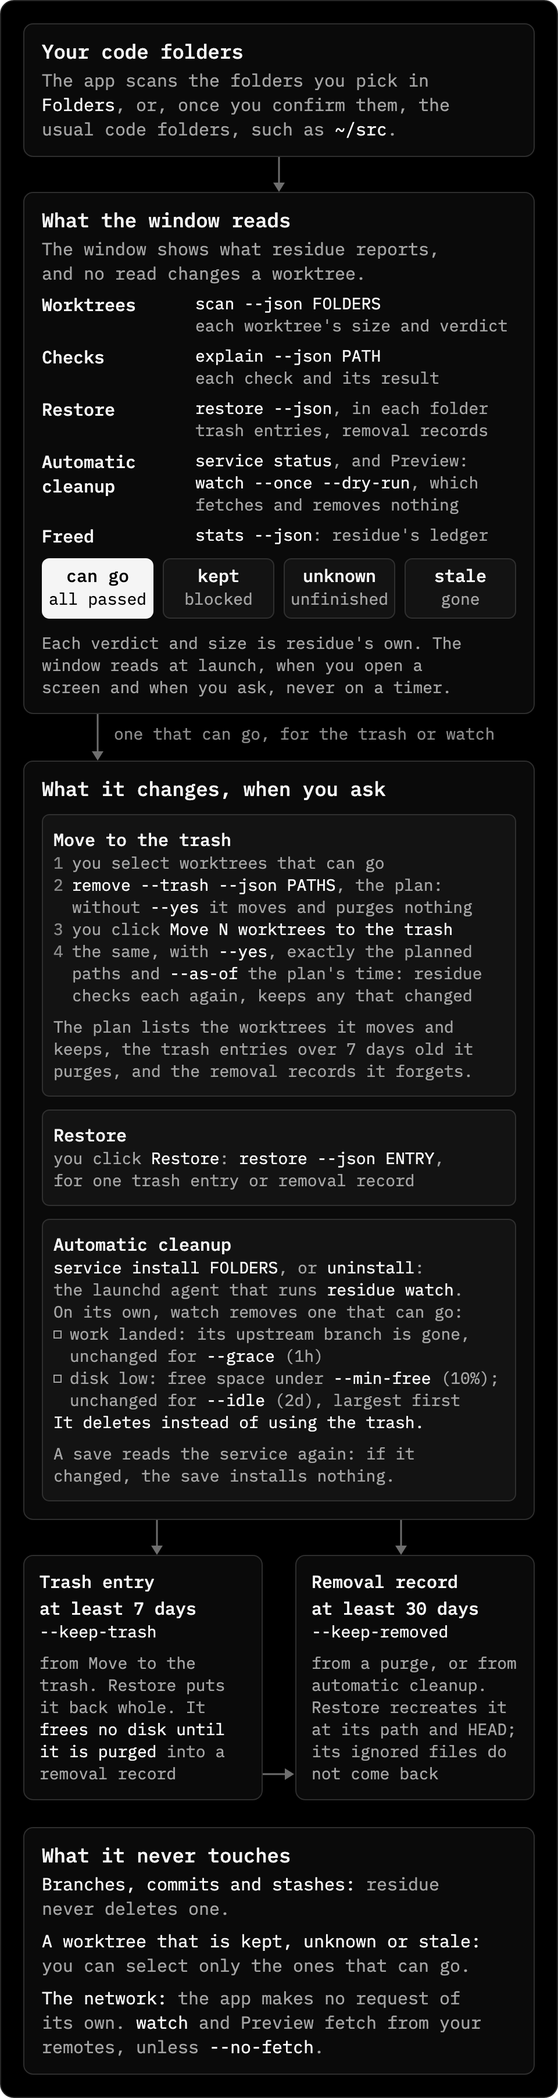
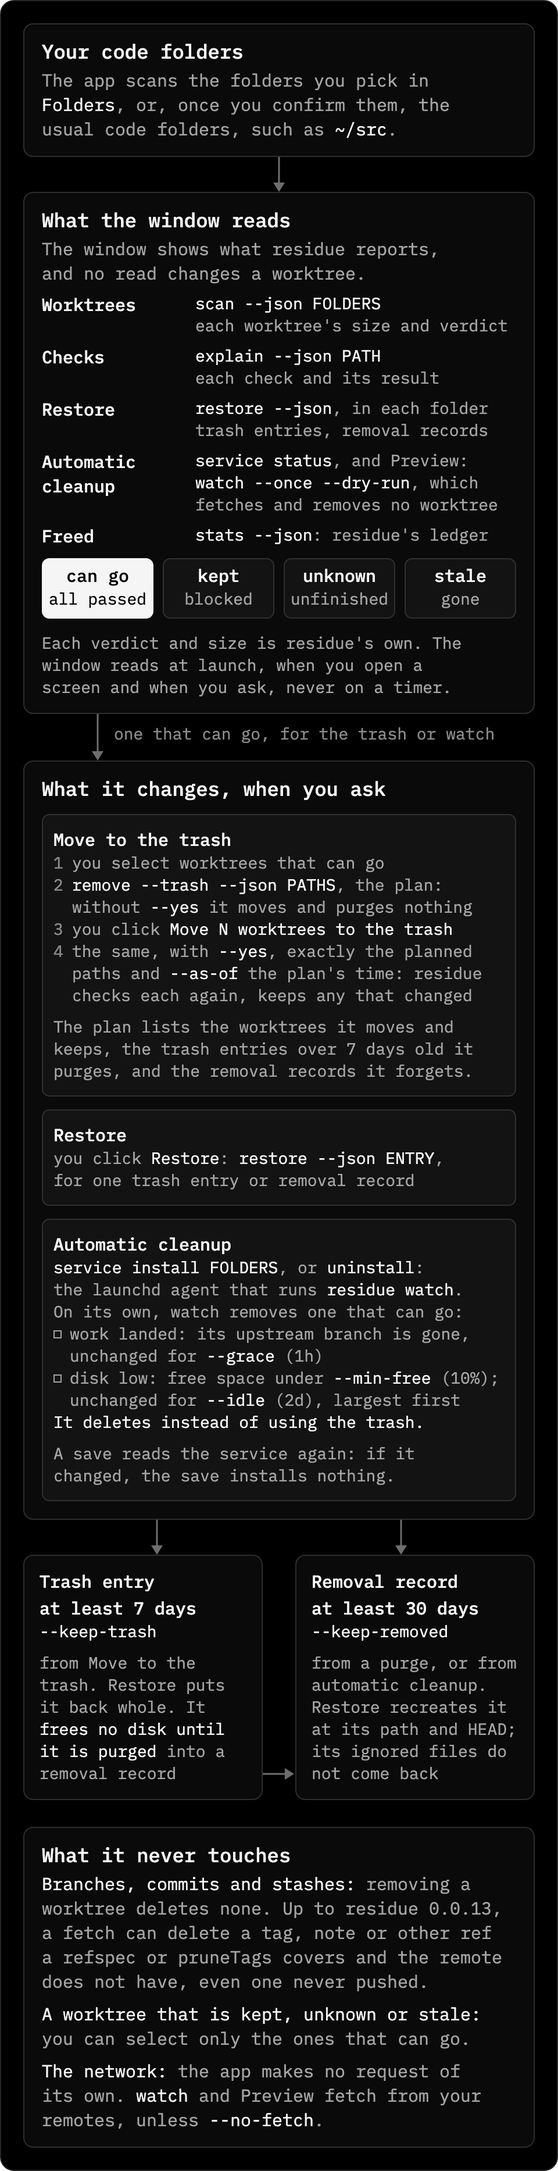
fix: say what automatic cleanup's fetch can delete (#22)

Changed region(s): [[0.0625, 0.0, 0.9062, 0.9933], [0.75, 0.031, 0.7812, 0.0621]]

diff --git a/src/views/Automatic.tsx b/src/views/Automatic.tsx
@@ -22,7 +22,7 @@ import type {
 } from "../lib/types";
 import { useCli } from "../lib/useCli";
 import { cleanupLevels, diskMeters, type CleanupLevels, type DiskMeter } from "../lib/viz";
-import { diskLow, duration, fetchWords, settingFlags, settingLines } from "../lib/watch";
+import { diskLow, duration, fetchCaveat, fetchWords, settingFlags, settingLines } from "../lib/watch";
 
 export function Automatic({
   info,
@@ -88,7 +88,8 @@ export function Automatic({
             <h2>Development preview</h2>
             <p>
               RESIDUE_APP_DEV_SERVICE=preview: the switch never installs or uninstalls the service. It
-              shows the command and runs only residue watch --once --dry-run, which removes nothing.
+              shows the command and runs only residue watch --once --dry-run, which removes no worktree
+              and fetches as the service does.
             </p>
           </section>
         ) : null}
@@ -145,7 +146,7 @@ export function Automatic({
                 {program.dry_run ? (
                   <div>
                     <dt>Mode</dt>
-                    <dd>log only (--dry-run): removes nothing</dd>
+                    <dd>log only (--dry-run): removes no worktree</dd>
                   </div>
                 ) : null}
                 {program.options.length > 0 ? (
@@ -321,13 +322,20 @@ function OtherOptions({ options }: { options: string[] }) {
   );
 }
 
-/** Whether the preview fetches, as the service would: before it runs (`done` false) or after. */
-function previewFetch(fetch: WatchFetch, done: boolean): string {
+/**
+ * Whether the preview fetches, as the service would, before it runs (`done`
+ * false) or after, and what that fetch can delete for this `version`.
+ */
+function previewFetch(fetch: WatchFetch, done: boolean, version: string | null): string {
+  const caveat = fetchCaveat(fetch, version);
+  const fetched = (text: string) => (caveat ? `${text} ${caveat}` : text);
   switch (fetch.mode) {
     case "every":
-      return done
-        ? `It fetched first, as the service does about every ${duration(fetch.value)}, so a branch deleted on the remote shows here. A fetch changes only remote-tracking refs.`
-        : "It fetches first, as the service does, which can take a while. A fetch changes only remote-tracking refs.";
+      return fetched(
+        done
+          ? `It fetched first, with --prune, as the service does about every ${duration(fetch.value)}, so a branch deleted on the remote shows here.`
+          : "It fetches first, with --prune, as the service does, which can take a while.",
+      );
     case "off":
       return done
         ? "It did not fetch (--no-fetch), like the service: a branch deleted on the remote shows after your next git fetch --prune."
@@ -335,7 +343,9 @@ function previewFetch(fetch: WatchFetch, done: boolean): string {
     case "never":
       return `A residue older than ${fetch.since} never fetches, so neither ${done ? "did" : "does"} the preview.`;
     default:
-      return `Whether it ${done ? "fetched" : "fetches"} depends on the residue version, which the app could not read.`;
+      return fetched(
+        `Whether it ${done ? "fetched" : "fetches"} depends on the residue version, which the app could not read.`,
+      );
   }
 }
 
@@ -460,7 +470,10 @@ function WhatItRemoves({
           Every check runs first: changes, untracked files, a running process or a lock keep a
           worktree.
         </li>
-        <li>It deletes instead of using the trash. Branches and commits stay.</li>
+        <li>
+          It deletes instead of using the trash, and keeps the worktree's branch and commits
+          {fetchCaveat(settings.fetch, version) ? ", but its fetch can delete a tag, note, branch or other ref, as above." : "."}
+        </li>
         <li>
           Restore recreates what it deleted for at least {duration(settings.keep_removed.value)} (
           {settings.keep_removed.default ? "residue's default " : "the service's "}
@@ -723,7 +736,8 @@ function SaveForm({
         Deletes a worktree when its upstream branch is gone and it is unchanged for{" "}
         {duration(settings.grace.value)}, or when the disk is below {low.below} free and it is
         unchanged for {duration(settings.idle.value)}. It starts now and at every login, runs every
-        check first, and deletes instead of using the trash; branches and commits stay.
+        check first, and deletes instead of using the trash. It keeps the worktree's branch and
+        commits{fetchCaveat(settings.fetch, plan.version) ? ", but its fetch can delete a tag, note, branch or other ref: see Fetching." : "."}
       </Dialog.Description>
 
       <fieldset className="folder-choice">
@@ -743,7 +757,7 @@ function SaveForm({
       </fieldset>
 
       <Checkbox
-        label="Log only, remove nothing (--dry-run)"
+        label="Log only, remove no worktree (--dry-run)"
         checked={dryRun}
         disabled={locked}
         onCheckedChange={(on) => setDryRun(on === true)}
@@ -825,12 +839,12 @@ function SaveForm({
             <pre className="log full" aria-label="Preview">
               {previewed.lines.length > 0 ? previewed.lines.join("\n") : "Nothing to remove now."}
             </pre>
-            <p className="hint">{previewFetch(previewed.fetch, true)}</p>
+            <p className="hint">{previewFetch(previewed.fetch, true, plan.version)}</p>
           </>
         ) : (
           <p className="hint">
             Runs one pass of the service with these settings and <Flags flags={["--dry-run"]} />,
-            so it removes nothing. {previewFetch(settings.fetch, false)}
+            so it removes no worktree. {previewFetch(settings.fetch, false, plan.version)}
           </p>
         )}
       </section>

diff --git a/src/lib/watch.ts b/src/lib/watch.ts
@@ -3,7 +3,7 @@
 // here assumes a value: an option the service does not set arrives as
 // residue's default, marked as one.
 
-import { plural } from "./format";
+import { plural } from "./format.ts";
 import type { WatchFetch, WatchSettings } from "./types";
 
 const UNITS: Record<string, string> = { m: "minute", h: "hour", d: "day", w: "week" };
@@ -38,17 +38,54 @@ export function diskLow(settings: WatchSettings): { below: string; until: string
   return { below: `${p}%`, until: `${p + 5}%` };
 }
 
-/** How watch learns that a branch was deleted on the remote. */
+/**
+ * The last residue whose `watch` fetch can delete a ref other than the
+ * remote's own remote-tracking refs. Its `git fetch --prune` prunes every
+ * destination of the remote's fetch refspecs, and every tag under
+ * `pruneTags`: a tag, note or other ref they cover that the remote does not
+ * have goes, even one that was never pushed, and a refspec into another
+ * remote's refs prunes that remote's. The next release gives Git only the
+ * refspecs that store under `refs/remotes/`.
+ */
+export const FETCH_PRUNES_LOCAL_UNTIL = "0.0.13";
+
+/** `residue 0.0.12` -> [0, 0, 12], as `service.rs` `parse_version` reads it. */
+function versionParts(text: string): [number, number, number] | null {
+  const m = /^residue (\d+)\.(\d+)\.(\d+)(?:[-+.]|$)/.exec(text.trim());
+  return m ? [Number(m[1]), Number(m[2]), Number(m[3])] : null;
+}
+
+/**
+ * What a fetch of this residue can delete besides remote-tracking refs, said
+ * beside the fetch; null when the residue is newer than
+ * `FETCH_PRUNES_LOCAL_UNTIL` or does not fetch. An unknown version gets it.
+ */
+export function fetchCaveat(fetch: WatchFetch, version: string | null): string | null {
+  if (fetch.mode === "off" || fetch.mode === "never") return null;
+  const v = version ? versionParts(version) : null;
+  const until = versionParts(`residue ${FETCH_PRUNES_LOCAL_UNTIL}`);
+  const at = v && until ? v.findIndex((part, i) => part !== until[i]) : -1;
+  if (v && until && at >= 0 && v[at]! > until[at]!) return null;
+  return `Up to residue ${FETCH_PRUNES_LOCAL_UNTIL}, its fetch also deletes a tag, note or other ref that a fetch refspec or pruneTags covers and the remote does not have, even one never pushed. Setting --no-fetch from a terminal avoids that.`;
+}
+
+/** How watch learns that a branch was deleted on the remote, and what its fetch can also delete. */
 export function fetchWords(fetch: WatchFetch, version: string | null): string {
+  const caveat = fetchCaveat(fetch, version);
+  const fetched = (text: string) => (caveat ? `${text} ${caveat}` : text);
   switch (fetch.mode) {
     case "every":
-      return `It fetches about every ${duration(fetch.value)}, with --prune, so it sees a branch deleted on the remote without your own fetch.`;
+      return fetched(
+        `It fetches about every ${duration(fetch.value)}, with --prune, so it sees a branch deleted on the remote without your own fetch.`,
+      );
     case "off":
       return "It does not fetch (--no-fetch): it sees a branch deleted on the remote after your next git fetch --prune.";
     case "never":
       return `${version ?? "This residue"} never fetches: it sees a branch deleted on the remote after your next git fetch --prune. residue ${fetch.since} and newer fetch about every ${duration(fetch.every)}, unless --no-fetch.`;
     default:
-      return `Unknown residue version: before ${fetch.since}, residue never fetches, and sees a branch deleted on the remote after your next git fetch --prune. residue ${fetch.since} and newer fetch about every ${duration(fetch.every)}, unless --no-fetch.`;
+      return fetched(
+        `Unknown residue version: before ${fetch.since}, residue never fetches, and sees a branch deleted on the remote after your next git fetch --prune. residue ${fetch.since} and newer fetch about every ${duration(fetch.every)}, unless --no-fetch.`,
+      );
   }
 }
 

diff --git a/tests/watch.test.ts b/tests/watch.test.ts
@@ -1,0 +1,53 @@
+// What the window says about watch's fetch, by the version of the residue
+// that runs it (src/lib/watch.ts). Up to residue 0.0.13 that fetch can also
+// delete a tag, note or other ref, even one never pushed, and the window must
+// say so.
+import assert from "node:assert/strict";
+import { test } from "node:test";
+import { FETCH_PRUNES_LOCAL_UNTIL, fetchCaveat, fetchWords } from "../src/lib/watch.ts";
+import type { WatchFetch } from "../src/lib/types.ts";
+
+const every: WatchFetch = { mode: "every", value: "30m", default: true };
+const unknown: WatchFetch = { mode: "unknown", since: "0.0.7", every: "30m" };
+
+test("the caveat names --no-fetch, where it is set, and what the fetch can delete", () => {
+  const caveat = fetchCaveat(every, "residue 0.0.12");
+  assert.ok(caveat);
+  assert.match(caveat, /--no-fetch from a terminal/);
+  assert.match(caveat, /tag, note or other ref that a fetch refspec or pruneTags covers/);
+  assert.match(caveat, /even one never pushed/);
+  assert.match(caveat, new RegExp(`Up to residue ${FETCH_PRUNES_LOCAL_UNTIL.replaceAll(".", "\\.")}`));
+});
+
+test("a residue up to the last one that prunes local refs gets the caveat", () => {
+  for (const v of ["residue 0.0.7", "residue 0.0.12", "residue 0.0.13", "residue 0.0.13-rc.1"]) {
+    assert.ok(fetchCaveat(every, v), v);
+  }
+});
+
+test("a newer residue does not", () => {
+  for (const v of ["residue 0.0.14", "residue 0.1.0", "residue 1.0.0", "residue 0.0.20+build"]) {
+    assert.equal(fetchCaveat(every, v), null, v);
+  }
+});
+
+test("an unknown or unreadable version gets the caveat", () => {
+  assert.ok(fetchCaveat(every, null));
+  assert.ok(fetchCaveat(every, "residue"));
+  assert.ok(fetchCaveat(every, "something else 0.0.14"));
+  assert.ok(fetchCaveat(unknown, null));
+});
+
+test("no fetch, no caveat", () => {
+  assert.equal(fetchCaveat({ mode: "off" }, "residue 0.0.12"), null);
+  assert.equal(fetchCaveat({ mode: "never", since: "0.0.7", every: "30m" }, "residue 0.0.6"), null);
+});
+
+test("the fetch words carry the caveat only when it applies", () => {
+  const old = fetchWords(every, "residue 0.0.12");
+  assert.match(old, /--prune/);
+  assert.match(old, /--no-fetch/);
+  assert.doesNotMatch(old, /only remote-tracking/);
+  assert.doesNotMatch(fetchWords(every, "residue 0.0.14"), /tag, note or other ref/);
+  assert.doesNotMatch(fetchWords({ mode: "off" }, "residue 0.0.12"), /tag, note or other ref/);
+});

diff --git a/src/lib/types.ts b/src/lib/types.ts
@@ -530,7 +530,8 @@ export type ServiceSave =
 
 /**
  * `residue watch --once --dry-run` with every option a save passes on, run by
- * the binary a save installs with. It removes nothing.
+ * the binary a save installs with. It removes no worktree, and fetches as
+ * the service does (`fetchCaveat` in `watch.ts` says what that can delete).
  */
 export interface ServicePreview {
   command: string;

diff --git a/src-tauri/src/service.rs b/src-tauri/src/service.rs
@@ -501,7 +501,7 @@ pub struct Change {
     pub status: Status,
 }
 
-/// What `residue watch --once --dry-run` decided, which removes nothing.
+/// What `residue watch --once --dry-run` decided, which removes no worktree.
 #[derive(Debug, Clone, Serialize)]
 pub struct Preview {
     pub command: String,
@@ -515,7 +515,8 @@ pub struct Preview {
 /// `residue service install` or `uninstall`: launchd acts on the user's real
 /// session and the label is shared with any residue service already running.
 /// The switch then shows the command it would run and the output of
-/// `residue watch --once --dry-run`, which removes nothing, and remembers the
+/// `residue watch --once --dry-run`, which removes no worktree but fetches
+/// as the service does (`run_preview`), and remembers the
 /// pretend state until the app quits. With `RESIDUE_APP_DEV_AGENT_FILE`
 /// set to a plist as well, the preview reads that file as the installed
 /// service's agent file, on every read, until the switch is used: a change
@@ -1801,7 +1802,7 @@ pub fn uninstall(ctx: &Context, dev: &DevPreview) -> Result<Change, CliError> {
 }
 
 /// What automatic cleanup would remove right now, after a save of `roots`:
-/// the service's next pass with `--dry-run`, which removes nothing.
+/// the service's next pass with `--dry-run`, which removes no worktree.
 pub fn preview(ctx: &Context, dev: &DevPreview, roots: &[PathBuf]) -> Result<Preview, CliError> {
     let (current, installer) = read(ctx, dev)?;
     run_preview(ctx, &installer, roots, &current.plan.keep)
@@ -1809,9 +1810,14 @@ pub fn preview(ctx: &Context, dev: &DevPreview, roots: &[PathBuf]) -> Result<Pre
 
 /// `residue watch --once --dry-run` with every option a save passes on, run
 /// by the binary a save installs with: a pass as the saved service runs it,
-/// which removes nothing. Like the service, it fetches first unless the
-/// options say `--no-fetch` or the binary is older than 0.0.7. A fetch
-/// changes only remote-tracking refs.
+/// which removes no worktree. Like the service, it fetches first, with
+/// `git fetch --prune`, unless the options say `--no-fetch` or the binary is
+/// older than 0.0.7. Up to residue 0.0.13 that fetch prunes every
+/// destination of a remote's fetch refspecs, and every tag under
+/// `pruneTags`, so it also deletes a tag, note or other ref they cover that
+/// the remote does not have, even one never pushed; later releases change
+/// only remote-tracking refs. The window
+/// says so beside the fetch (`fetchCaveat` in `src/lib/watch.ts`).
 fn run_preview(
     ctx: &Context,
     installer: &Installer,

diff --git a/src-tauri/src/lib.rs b/src-tauri/src/lib.rs
@@ -486,7 +486,8 @@ async fn service_uninstall(state: AppState<'_>) -> Result<service::Change, CliEr
 
 /// `residue watch --once --dry-run ROOT...` with every option a save keeps,
 /// run by the binary a save installs with: what automatic cleanup would
-/// remove now, fetching first as the service does. It removes nothing.
+/// remove now, fetching first as the service does. It removes no worktree;
+/// its fetch is the service's (`service::run_preview`).
 #[tauri::command]
 async fn service_preview(
     state: AppState<'_>,

diff --git a/README.md b/README.md
@@ -21,11 +21,11 @@ Then drag residue to Applications. It needs macOS 13 or later, on Apple silicon 
 <picture>
   <source media="(prefers-color-scheme: dark)" srcset="docs/assets/how-it-works-dark.png">
   <source media="(prefers-color-scheme: light)" srcset="docs/assets/how-it-works.png">
-  <img src="docs/assets/how-it-works.png" width="480" alt="Chart, top to bottom. Your code folders: the app scans the folders you pick in Folders, or, once you confirm them, the usual code folders that exist, such as ~/src. It scans nothing before that: a scan runs Git in every repository under them. What the window reads: the window shows what residue reports, and no read changes a worktree. Worktrees: scan --json FOLDERS, each worktree's size and verdict. Checks: explain --json PATH, each check and its result. Restore: restore --json, in each folder, for trash entries and removal records. Automatic cleanup: service status, and Preview: watch --once --dry-run, which fetches and removes nothing. Freed: stats --json, residue's ledger. The verdicts: can go (all passed), kept (blocked), unknown (unfinished) and stale (gone). Each verdict and size is residue's own. The window reads at launch, when you open a screen and when you ask, never on a timer. An arrow: one that can go, for the trash or watch. What it changes, when you ask. Move to the trash: 1, you select worktrees that can go; 2, remove --trash --json PATHS, the plan: without --yes it moves and purges nothing; 3, you click Move N worktrees to the trash; 4, the same, with --yes, exactly the planned paths and --as-of the plan's time: residue checks each again and keeps any that changed. The plan lists the worktrees it moves and keeps, the trash entries over 7 days old it purges, and the removal records it forgets. Restore: you click Restore, restore --json ENTRY, for one trash entry or removal record. Automatic cleanup: service install FOLDERS, or uninstall: the launchd agent that runs residue watch. On its own, watch removes one that can go when work landed (its upstream branch is gone, unchanged for --grace, 1h) or when the disk is low (free space under --min-free, 10%; unchanged for --idle, 2d, largest first). It deletes instead of using the trash. A save reads the service again: if it changed, the save installs nothing. Arrows to two boxes. Trash entry, at least 7 days (--keep-trash): from Move to the trash. Restore puts it back whole. It frees no disk until it is purged into a removal record. Removal record, at least 30 days (--keep-removed): from a purge, or from automatic cleanup. Restore recreates it at its path and HEAD; its ignored files do not come back. What it never touches. Branches, commits and stashes: residue never deletes one. A worktree that is kept, unknown or stale: you can select only the ones that can go. The network: the app makes no request of its own; watch and Preview fetch from your remotes, unless --no-fetch.">
+  <img src="docs/assets/how-it-works.png" width="480" alt="Chart, top to bottom. Your code folders: the app scans the folders you pick in Folders, or, once you confirm them, the usual code folders that exist, such as ~/src. It scans nothing before that: a scan runs Git in every repository under them. What the window reads: the window shows what residue reports, and no read changes a worktree. Worktrees: scan --json FOLDERS, each worktree's size and verdict. Checks: explain --json PATH, each check and its result. Restore: restore --json, in each folder, for trash entries and removal records. Automatic cleanup: service status, and Preview: watch --once --dry-run, which fetches and removes no worktree. Freed: stats --json, residue's ledger. The verdicts: can go (all passed), kept (blocked), unknown (unfinished) and stale (gone). Each verdict and size is residue's own. The window reads at launch, when you open a screen and when you ask, never on a timer. An arrow: one that can go, for the trash or watch. What it changes, when you ask. Move to the trash: 1, you select worktrees that can go; 2, remove --trash --json PATHS, the plan: without --yes it moves and purges nothing; 3, you click Move N worktrees to the trash; 4, the same, with --yes, exactly the planned paths and --as-of the plan's time: residue checks each again and keeps any that changed. The plan lists the worktrees it moves and keeps, the trash entries over 7 days old it purges, and the removal records it forgets. Restore: you click Restore, restore --json ENTRY, for one trash entry or removal record. Automatic cleanup: service install FOLDERS, or uninstall: the launchd agent that runs residue watch. On its own, watch removes one that can go when work landed (its upstream branch is gone, unchanged for --grace, 1h) or when the disk is low (free space under --min-free, 10%; unchanged for --idle, 2d, largest first). It deletes instead of using the trash. A save reads the service again: if it changed, the save installs nothing. Arrows to two boxes. Trash entry, at least 7 days (--keep-trash): from Move to the trash. Restore puts it back whole. It frees no disk until it is purged into a removal record. Removal record, at least 30 days (--keep-removed): from a purge, or from automatic cleanup. Restore recreates it at its path and HEAD; its ignored files do not come back. What it never touches. Branches, commits and stashes: removing a worktree deletes none. Up to residue 0.0.13, a fetch can delete a tag, note or other ref a fetch refspec or pruneTags covers and the remote does not have, even one never pushed. A worktree that is kept, unknown or stale: you can select only the ones that can go. The network: the app makes no request of its own; watch and Preview fetch from your remotes, unless --no-fetch.">
 </picture>
 </p>
 
-The app scans the folders you pick. At first it offers the usual code folders that exist, such as `~/src`, and scans nothing until you confirm them, since a scan runs Git in every repository under them, with each repository's own settings. Worktrees, a worktree's checks, Restore, Automatic cleanup and Freed each show what residue reports, and no read changes a worktree: the window reads at launch, when you open a screen and when you ask, never on a timer. You can select only a worktree that can go, where every check passed. Move to the trash shows residue's plan first, which moves and purges nothing; only when you confirm it does the app run the same command with `--yes` and exactly the planned paths, and residue checks each one again. A trash entry comes back whole, but it frees no disk until a later removal or automatic cleanup purges it into a removal record, from which Restore recreates the worktree without its ignored files. By default, a trash entry lasts at least 7 days and a removal record at least 30. Automatic cleanup is residue's service: once you turn it on, it removes worktrees that can go on its own, when their work landed or the disk is low, and it deletes them instead of using the trash. residue never deletes a branch, commit or stash. The app makes no network request of its own; only `watch` and Preview fetch, from your repositories' remotes.
+The app scans the folders you pick. At first it offers the usual code folders that exist, such as `~/src`, and scans nothing until you confirm them, since a scan runs Git in every repository under them, with each repository's own settings. Worktrees, a worktree's checks, Restore, Automatic cleanup and Freed each show what residue reports, and no read changes a worktree: the window reads at launch, when you open a screen and when you ask, never on a timer. You can select only a worktree that can go, where every check passed. Move to the trash shows residue's plan first, which moves and purges nothing; only when you confirm it does the app run the same command with `--yes` and exactly the planned paths, and residue checks each one again. A trash entry comes back whole, but it frees no disk until a later removal or automatic cleanup purges it into a removal record, from which Restore recreates the worktree without its ignored files. By default, a trash entry lasts at least 7 days and a removal record at least 30. Automatic cleanup is residue's service: once you turn it on, it removes worktrees that can go on its own, when their work landed or the disk is low, and it deletes them instead of using the trash. Removing a worktree never deletes a branch, commit or stash. The app makes no network request of its own; only `watch` and Preview fetch, from your repositories' remotes, and up to residue 0.0.13 that fetch can also delete a tag, note or other ref, even one never pushed: [What the app runs](#what-the-app-runs) says which.
 
 [Install](#install) · [Screens](#screens) · [What the app runs](#what-the-app-runs) · [Uninstall](#uninstall) · [Build from source](#build-from-source)
 
@@ -80,7 +80,7 @@ The screenshots show example repositories and a made-up history of removals.
 - **Removal** always uses the trash (`residue remove --trash`), and nothing moves until you confirm the plan residue shows: the worktrees it moves, the trash entries older than 7 days it purges, and the removal records it forgets, each older than both 30 days and the `--keep-removed` it was written with. The confirmed run adds `--yes` and `--as-of` the plan's time, with exactly the planned paths, so it purges and forgets only what the plan listed. The branch and its commits always stay. A trash entry frees no disk until it is purged, and its branch stays checked out there, so `git switch` to that branch in another worktree refuses until you restore it or the purge removes it: [The trash](https://github.com/whiteheap/residue-cli#the-trash).
 - **Restore** is `residue restore`, and it lists the trash and the removal records, newest first. A trashed worktree comes back with every file until a later removal or automatic cleanup in that repository purges it. The purge, and every deletion by automatic cleanup, leaves a removal record, and Restore recreates the worktree from it until a later removal forgets the record: on its branch and HEAD, or on a new branch at that HEAD when its branch no longer contains it or is checked out elsewhere. No run forgets one before the `--keep-removed` it was written with: 30 days for the app's removals, the service's for automatic cleanup. Each record's row gives the date it lasts until, at least. Its ignored files, such as `node_modules/`, do not come back, and the record's row names them before you click: [Restore a removed worktree](https://github.com/whiteheap/residue-cli#restore-a-removed-worktree).
 - **Freed** is `residue stats --json`: what residue freed on this machine in the last 7 and 30 days, all time and since the app was last open, each of the last 12 weeks, by command and by repository. When automatic cleanup freed space while the app was closed, the Worktrees screen opens with how much. Each size is the estimate residue measured before the removal: [How much space it freed](https://github.com/whiteheap/residue-cli#how-much-space-it-freed).
-- **Automatic cleanup** is `residue service install FOLDERS` and `residue service uninstall`: the same `com.whiteheap.residue.watch` service as residue's [Automate cleanup](https://github.com/whiteheap/residue-cli#automate-cleanup), so the app shows a service you installed from a terminal, and the other way round. It deletes instead of using the trash; the app says so before you turn it on. Saving other folders keeps the service's options as written, including ones the app does not know. Preview runs one pass the way the saved service would, with `--dry-run`, fetching first unless the service sets `--no-fetch`.
+- **Automatic cleanup** is `residue service install FOLDERS` and `residue service uninstall`: the same `com.whiteheap.residue.watch` service as residue's [Automate cleanup](https://github.com/whiteheap/residue-cli#automate-cleanup), so the app shows a service you installed from a terminal, and the other way round. It deletes instead of using the trash; the app says so before you turn it on. Saving other folders keeps the service's options as written, including ones the app does not know. Preview runs one pass the way the saved service would, with `--dry-run`, which removes no worktree, fetching first unless the service sets `--no-fetch`. That fetch is `git fetch --prune`. Up to residue 0.0.13, it prunes every ref a remote's fetch refspecs store into, and every tag under `fetch.pruneTags` or `remote.NAME.pruneTags`: a tag, note or other ref that a fetch refspec or `pruneTags` covers and the remote does not have goes, even one never pushed, in Preview and in a log-only (`--dry-run`) service too. A refspec that stores into another remote's refs prunes that remote's. Only with Git's default refspec and no `pruneTags` does it change nothing but that remote's remote-tracking refs. The app shows this beside each fetch. The app's dialog has no `--no-fetch`: set it from a terminal, `residue service install --no-fetch FOLDERS`, and a save in the app keeps it.
 - The service records the binary that installed it, so the app never installs it from the copy inside the app. It uses a `residue` you installed that is at least as new as the app's, such as `/opt/homebrew/bin/residue`, or else a copy at `~/Library/Application Support/com.whiteheap.residue/bin/residue`, which stays when the app moves or is deleted. The Automatic cleanup screen shows which binary the service runs and the command that turns it off from a terminal. Deleting the app leaves the service running.
 
 ## Uninstall

diff --git a/AGENTS.md b/AGENTS.md
@@ -15,7 +15,7 @@ These are why the app can be trusted with someone's worktrees. Do not weaken the
 - A failure to draw stays in the part that failed: each screen and each dialog has its own `ErrorBoundary`. A dialog's boundary draws its panel in a dialog whose one way out is Close, which returns to the screen's fresh read: drawing the dialog again would start its flow again after its action may have run. The panel never says that nothing changed, since the result of a confirmed action may be what failed to draw.
 - Restore runs only `residue restore --json ENTRY`, with a trash entry's or a removal record's `entry_path`. Listing runs `residue restore --json` in each folder and shows both `trash` and `removed`. A record's row says before the click what restore does not bring back (its `not_kept` ignored entries) and offers Restore only for a state it knows restore takes: `removed`, `interrupted` and `back` (Git lists the worktree at its path again; restore gives it what it lacks of the record). None for a record residue cannot read (`error`, `incomplete`), one it cannot tell is back (`unknown`, with `back_error`), or a state a newer residue adds.
 - Automatic cleanup runs `residue service install`, `uninstall` and `status` (`src-tauri/src/service.rs`), and `launchctl print` of the service, which only reads, to show the job launchd holds when it is not what the agent file says (`launchd_job`). Never a `launchctl` that changes anything. It installs from a residue the user installed that is at least as new as the bundled one, or else from the app's own copy in `~/Library/Application Support/com.whiteheap.residue/bin/`, never from the binary inside the app bundle: the service records the binary's path, and the app can move or be deleted. Each service command reads the bundled residue's version again (`bundled_version_now`): an app replaced on disk while it runs has another release at the same path, so only the window's version line keeps the first read. A save writes the app's own copy only when the new copy prints the version its dialog showed (`copy_sidecar`), and keeps the copy it replaces under a second name until residue has written the agent file: when residue writes nothing, the old copy goes back (`Previous`), so a save that installs nothing leaves the service on the residue it ran.
-- What the window says the service does comes from the service's arguments and the version of the binary it runs (`service.rs`, `watch_settings`), never from the bundled residue: `brew upgrade` changes the service's binary without the app. residue's defaults for options a service does not set are the `DEFAULT_*` constants in `service.rs` (`DEFAULT_KEEP_REMOVED` is residue-cli's `cli::DEFAULT_KEEP_REMOVED`), and `FETCH_SINCE` is the first release that fetches. Copy that says how long removal records last names the service's `--keep-removed` when it sets one, else that default, and says which. Saving folders passes every one of the service's options on as written, including an option the app does not know, such as one a newer residue adds (`parse_watch`: it takes the next argument as its value unless that is an option or an absolute path). Never drop an option on a save. An argument that is neither an option nor a folder blocks the save (`Plan.blocked`), never a fall back to defaults. The preview is the saved service's pass: `watch --once --dry-run` with every option a save keeps, by the binary a save installs with, so it fetches when the service would. A save installs what its dialog showed or nothing: the dialog plans from its own read, made when it opens, and sends that read's `Basis` back (the binary a save installs with and its version, the options it keeps, and the running service's binary, version, folders and `--dry-run`, and the `fingerprint:` line of `residue service status`); `install` reads again and, when any of it differs, installs nothing and returns what changed (`Save::Changed`). It then passes that fingerprint as `residue service install --expect`, so residue compares the service with it once more right before it writes, under the lock every `service install` and `uninstall` takes, and exit 4 (`EXPECT_CHANGED`) is a `Save::Changed` too, with nothing written (#11). `status` runs with the binary a save installs with, or with the bundled one when that is the app's own copy (`installs_as`), since the fingerprint names the residue release that read it. A read with no fingerprint saves nothing. Never plan a save from the screen's read, never drop a field from the basis, and never install without `--expect`. One save or turn-off runs at a time: `install` and `uninstall` hold `Changes` for their whole run and refuse while another runs, and the window keeps its screen while one runs (`go` in `src/App.tsx`, `changingService`). While Preview or Save runs, the dialog's folders and mode stay as they were at the click (`locked`), so the preview it shows and the save it runs are of the folders it shows. Other text about residue's behavior states what the bundled residue-cli release does.
+- What the window says the service does comes from the service's arguments and the version of the binary it runs (`service.rs`, `watch_settings`), never from the bundled residue: `brew upgrade` changes the service's binary without the app. residue's defaults for options a service does not set are the `DEFAULT_*` constants in `service.rs` (`DEFAULT_KEEP_REMOVED` is residue-cli's `cli::DEFAULT_KEEP_REMOVED`), and `FETCH_SINCE` is the first release that fetches. `FETCH_PRUNES_LOCAL_UNTIL` in `src/lib/watch.ts` is the last release whose fetch can also delete a tag, note or other ref that a fetch refspec or `pruneTags` covers and the remote does not have, even one never pushed, and the window says so beside a fetch of that release or an older one (`fetchCaveat`). Copy that says how long removal records last names the service's `--keep-removed` when it sets one, else that default, and says which. Saving folders passes every one of the service's options on as written, including an option the app does not know, such as one a newer residue adds (`parse_watch`: it takes the next argument as its value unless that is an option or an absolute path). Never drop an option on a save. An argument that is neither an option nor a folder blocks the save (`Plan.blocked`), never a fall back to defaults. The preview is the saved service's pass: `watch --once --dry-run` with every option a save keeps, by the binary a save installs with, so it fetches when the service would. A save installs what its dialog showed or nothing: the dialog plans from its own read, made when it opens, and sends that read's `Basis` back (the binary a save installs with and its version, the options it keeps, and the running service's binary, version, folders and `--dry-run`, and the `fingerprint:` line of `residue service status`); `install` reads again and, when any of it differs, installs nothing and returns what changed (`Save::Changed`). It then passes that fingerprint as `residue service install --expect`, so residue compares the service with it once more right before it writes, under the lock every `service install` and `uninstall` takes, and exit 4 (`EXPECT_CHANGED`) is a `Save::Changed` too, with nothing written (#11). `status` runs with the binary a save installs with, or with the bundled one when that is the app's own copy (`installs_as`), since the fingerprint names the residue release that read it. A read with no fingerprint saves nothing. Never plan a save from the screen's read, never drop a field from the basis, and never install without `--expect`. One save or turn-off runs at a time: `install` and `uninstall` hold `Changes` for their whole run and refuse while another runs, and the window keeps its screen while one runs (`go` in `src/App.tsx`, `changingService`). While Preview or Save runs, the dialog's folders and mode stay as they were at the click (`locked`), so the preview it shows and the save it runs are of the folders it shows. Other text about residue's behavior states what the bundled residue-cli release does.
 - The app bundles exactly one residue-cli release: the one `sidecar.lock` pins, by its version and the sha256 of its two macOS archives. It is `Contents/MacOS/residue-cli`: the app's own executable is `residue` (the Cargo `[[bin]]`), the name macOS shows, so a lookup of the CLI never takes `residue` beside the app, and a PATH search skips the app's own executable (`find_installer`). `scripts/sidecar.sh` downloads the two archives, checks each sha256 and its build-provenance attestation, checks each binary inside against the sha256 `sidecar.lock` pins for it, and joins the two with `lipo`. It refuses any file git tracks in `src-tauri/binaries/`, in every mode, and `--require-attestation`, which CI and the release run, downloads and checks again whatever is placed. `scripts/check-app.sh` fails a build whose residue-cli is not that release, by its version, the attestation check and each architecture's UUID. Never commit a binary, and never let CI or a release bundle a residue built from a checkout (`RESIDUE_CLI_SOURCE`).
 - Two versions, each with one owner: the app's is `version` in `src-tauri/tauri.conf.json`, the bundled CLI's is `version` in `sidecar.lock`. `package.json` and `src-tauri/Cargo.toml` hold none. The window shows both. Moving `sidecar.lock` to another release is a pull request of its own: set its archive and binary checksums as the file says, read that release's CHANGELOG entry in residue-cli, and update the `DEFAULT_*` constants, `FETCH_SINCE`, `src/lib/types.ts` and any text about residue's behavior that it changes.
 - Charts draw residue's numbers and shares of them, nothing else: `src/lib/viz.ts` turns residue's documents into shapes and `src/components/viz/` draws them. Emphasis is their one visual variable (`Tone`: bright, gray, hatched, rest), never a hue, and in forced colors each tone keeps a fill, an outline or the hatch. Every chart has a text equivalent on its screen (its caption, its legend's values, the list or the table), and nothing is reachable only through a chart. Never draw a count-down such as "days left": residue deletes a trash entry at the first removal or automatic cleanup in its repository after `--keep-trash`, not on a date.
@@ -39,7 +39,7 @@ CPU and memory belong to the user, and the window stays open beside their editor
 
 On a machine that runs residue's service, its user's data and service are not test fixtures:
 
-- Never run `residue service install` or `uninstall`, `--dry-run` and a scratch `HOME` included. launchd acts on the real login session (`gui/UID`) and the label `com.whiteheap.residue.watch` is shared, so either one replaces or removes that user's service. Run the app with `RESIDUE_APP_DEV_SERVICE=preview` to exercise the switch: it runs only `residue watch --once --dry-run`, which removes nothing. `residue service status` only reads.
+- Never run `residue service install` or `uninstall`, `--dry-run` and a scratch `HOME` included. launchd acts on the real login session (`gui/UID`) and the label `com.whiteheap.residue.watch` is shared, so either one replaces or removes that user's service. Run the app with `RESIDUE_APP_DEV_SERVICE=preview` to exercise the switch: it runs only `residue watch --once --dry-run`, which removes no worktree, and fetches as the service does unless the service sets `--no-fetch`. `residue service status` only reads.
 - Remove and restore only in scratch repositories you create in a temporary folder. A scan of real folders only reads, and is fine for a realistic overview.
 - To see the UI from a terminal that cannot record the screen, run `pnpm tauri dev` with `RESIDUE_APP_DEV_SNAPSHOT_DIR=DIR` and write a name into `DIR/request` ([CONTRIBUTING.md](CONTRIBUTING.md#development-builds)).
 

diff --git a/CHANGELOG.md b/CHANGELOG.md
@@ -11,6 +11,7 @@ Up to 0.0.10, the Mac app shipped in each residue-cli release, with residue's ve
 - A build bundles only the residue-cli release `sidecar.lock` pins. `scripts/sidecar.sh` refuses any file a commit put in `src-tauri/binaries/`, in every mode; `--require-attestation`, which CI and the release run, downloads and checks the release again whatever is placed; and `sidecar.lock` now pins the sha256 of each binary inside the two archives, which `--check`, and so `scripts/check-app.sh`, compares. A release is published only from a tag on a commit of `main`, and the check of a download names the workflow and the tag that built it: `gh attestation verify residue-macos.dmg --repo whiteheap/residue-ui --deny-self-hosted-runners --cert-identity https://github.com/whiteheap/residue-ui/.github/workflows/release.yml@refs/tags/vX.Y.Z`. `--repo` alone accepts an attestation from any workflow of the repository, at any branch or tag.
 - The window shows only the app's own pages and calls only the commands the app grants it by name. Any other navigation is refused, the page policy also refuses plugins, a `<base>`, form submissions and framing, and a click on a link no longer asks the opener plugin to open it. A development build's dev server listens on `127.0.0.1` alone.
 - The first launch scans nothing until you confirm the folders. The Worktrees screen lists the usual code folders it found, such as `~/src`, and says that a scan runs Git in every repository under them, with each repository's own settings; Scan these folders saves them and starts the scan, and Choose other folders opens Folders. Before, the app scanned those folders as soon as it opened. Restore also reads only saved folders, and offers the same confirm until there are some. A suggested folder deleted after launch is left out of the save instead of making it fail.
+- Automatic cleanup says what its fetch can delete. Preview and a log-only (`--dry-run`) service remove no worktree, but they fetch as the service does, with `git fetch --prune`, and up to residue 0.0.13 that also deletes a tag, note or other ref that a fetch refspec or `pruneTags` covers and the remote does not have, even one never pushed. The app said they removed nothing, that a fetch changed only remote-tracking refs, and that branches and commits stay. It now says so beside each fetch, for a residue of 0.0.13 or older or of unknown version, and names `--no-fetch`, which is set from a terminal. Removing a worktree still keeps its branch and commits.
 
 ## 0.0.12 (2026-11-09)
 

diff --git a/CONTRIBUTING.md b/CONTRIBUTING.md
@@ -80,7 +80,7 @@ sh scripts/check-app.sh src-tauri/target/universal-apple-darwin/release/bundle/m
 
 These environment variables change what a debug build (`pnpm tauri dev`) does. Release builds ignore them.
 
-- `RESIDUE_APP_DEV_SERVICE=preview`: the Automatic cleanup switch never runs `residue service install` or `uninstall`. launchd acts on your real login session, and the service label is shared with any residue service already running, so a real install or uninstall would replace or remove it. In preview the switch shows the command it would run and the output of `residue watch --once --dry-run`, which removes nothing. Use it whenever you work on that screen on a machine that runs residue's service.
+- `RESIDUE_APP_DEV_SERVICE=preview`: the Automatic cleanup switch never runs `residue service install` or `uninstall`. launchd acts on your real login session, and the service label is shared with any residue service already running, so a real install or uninstall would replace or remove it. In preview the switch shows the command it would run and the output of `residue watch --once --dry-run`, which removes no worktree but fetches as the service does. Use it whenever you work on that screen on a machine that runs residue's service.
 - `RESIDUE_APP_DEV_AGENT_FILE=PLIST`, with the preview on: the preview reads `PLIST` as the installed service's agent file, so you can see how the screen reads a service another residue version wrote. It reads the file again on every read, as it reads the real one, until you use the switch: change the file while the save dialog is open, and Save refuses and shows what changed. The app only reads the file. Make one in a temporary folder with `plutil -create xml1 PLIST` and `plutil -insert ProgramArguments -json '["/opt/homebrew/bin/residue","watch","--no-fetch","/tmp/x"]' PLIST`.
 - `RESIDUE_APP_DEV_SNAPSHOT_DIR=DIR`: write a name into `DIR/request` and the app saves a picture of its window to `DIR/NAME.tiff`, for checking the UI from a terminal that macOS does not allow to record the screen. `sips -s format png DIR/NAME.tiff --out DIR/NAME.png` converts it. The picture is at twice the window's size. The README's screenshots came from it, with a 1180 by 888 point window and a scratch `HOME` whose example repositories are under `~/src`, so no real path or name shows. The UI is grayscale, so they are stored as 8-bit gray PNGs, which lose nothing.
 
